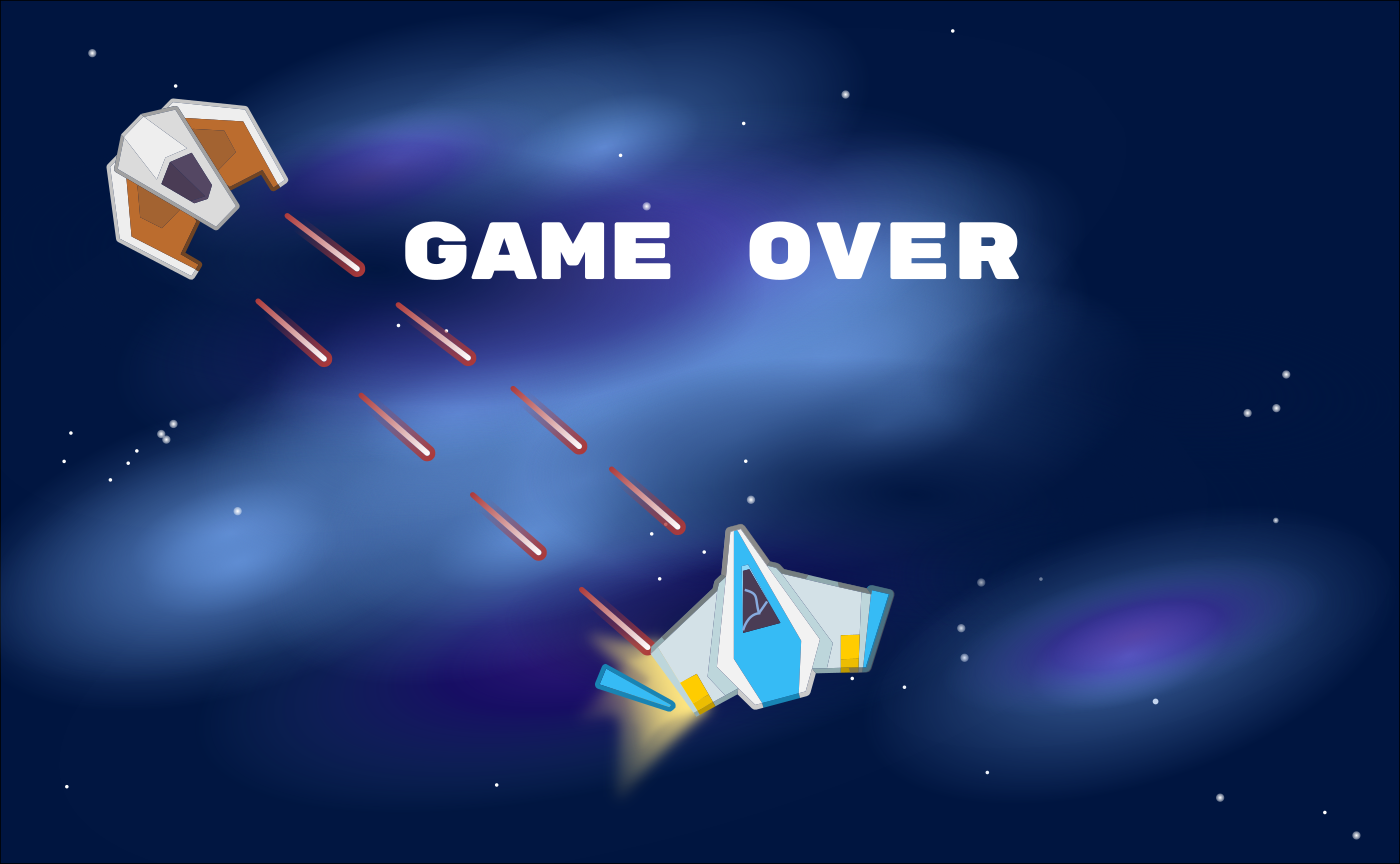
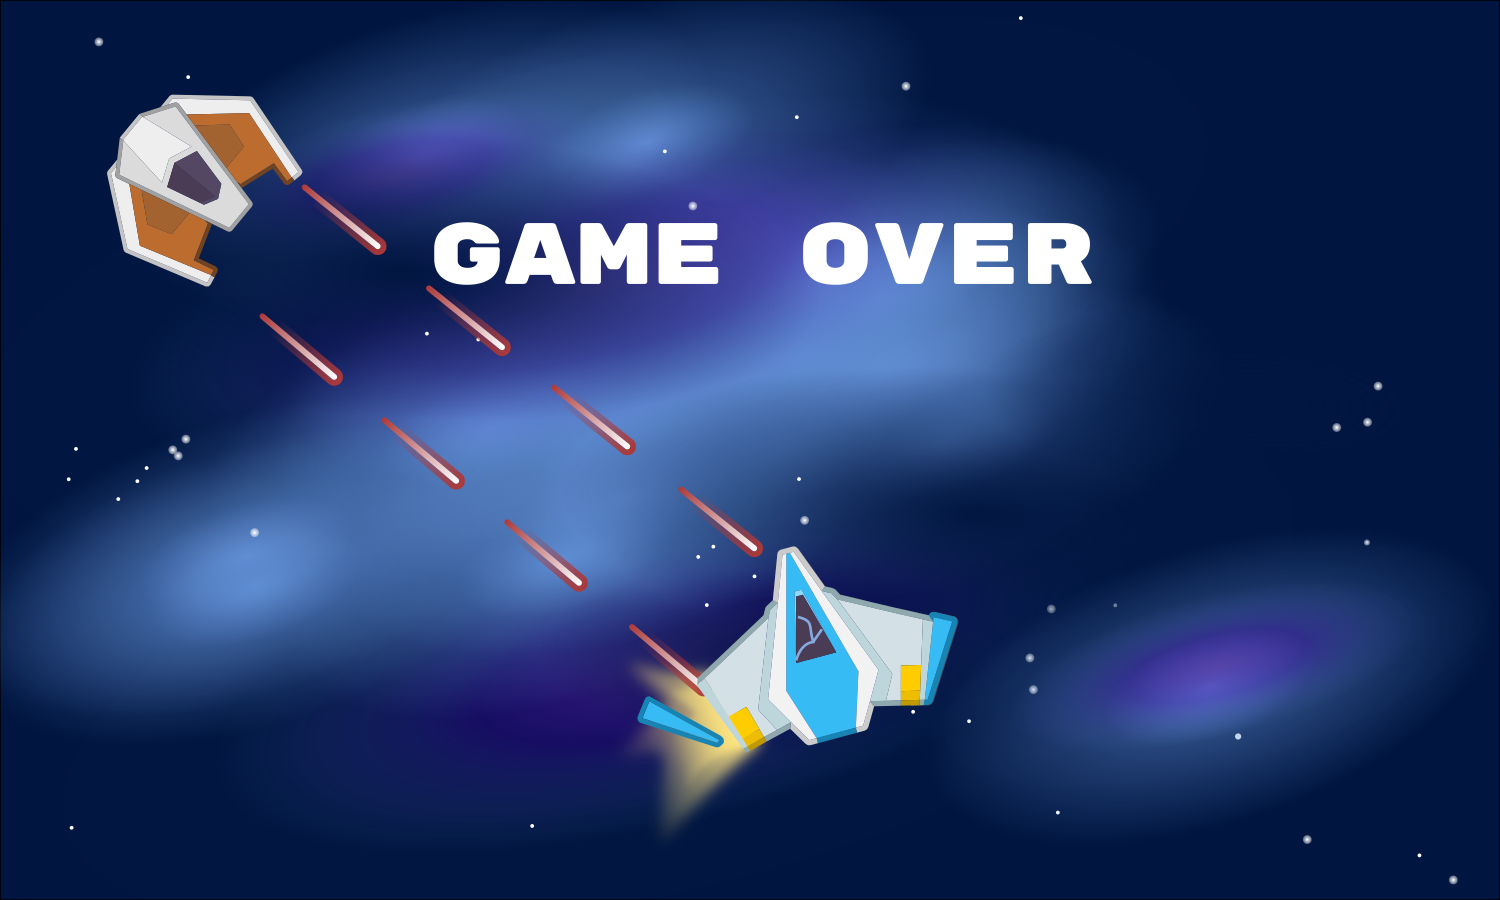
Updated background image sizes

diff --git a/src/scenes/gameover.js b/src/scenes/gameover.js
@@ -18,7 +18,7 @@ export default class GameOver extends Scene {
 
     create() {
 
-        this.add.image(700, 432, 'background');
+        this.add.image(750, 450, 'background');
 
         this.title_button_small = new TextButton(
             this,

diff --git a/src/scenes/title.js b/src/scenes/title.js
@@ -18,7 +18,7 @@ export default class Title extends Scene {
 
     create() {
 
-        this.add.image(700, 432, 'background');
+        this.add.image(750, 450, 'background');
 
         this.title_button_small = new TextButton(
             this,
